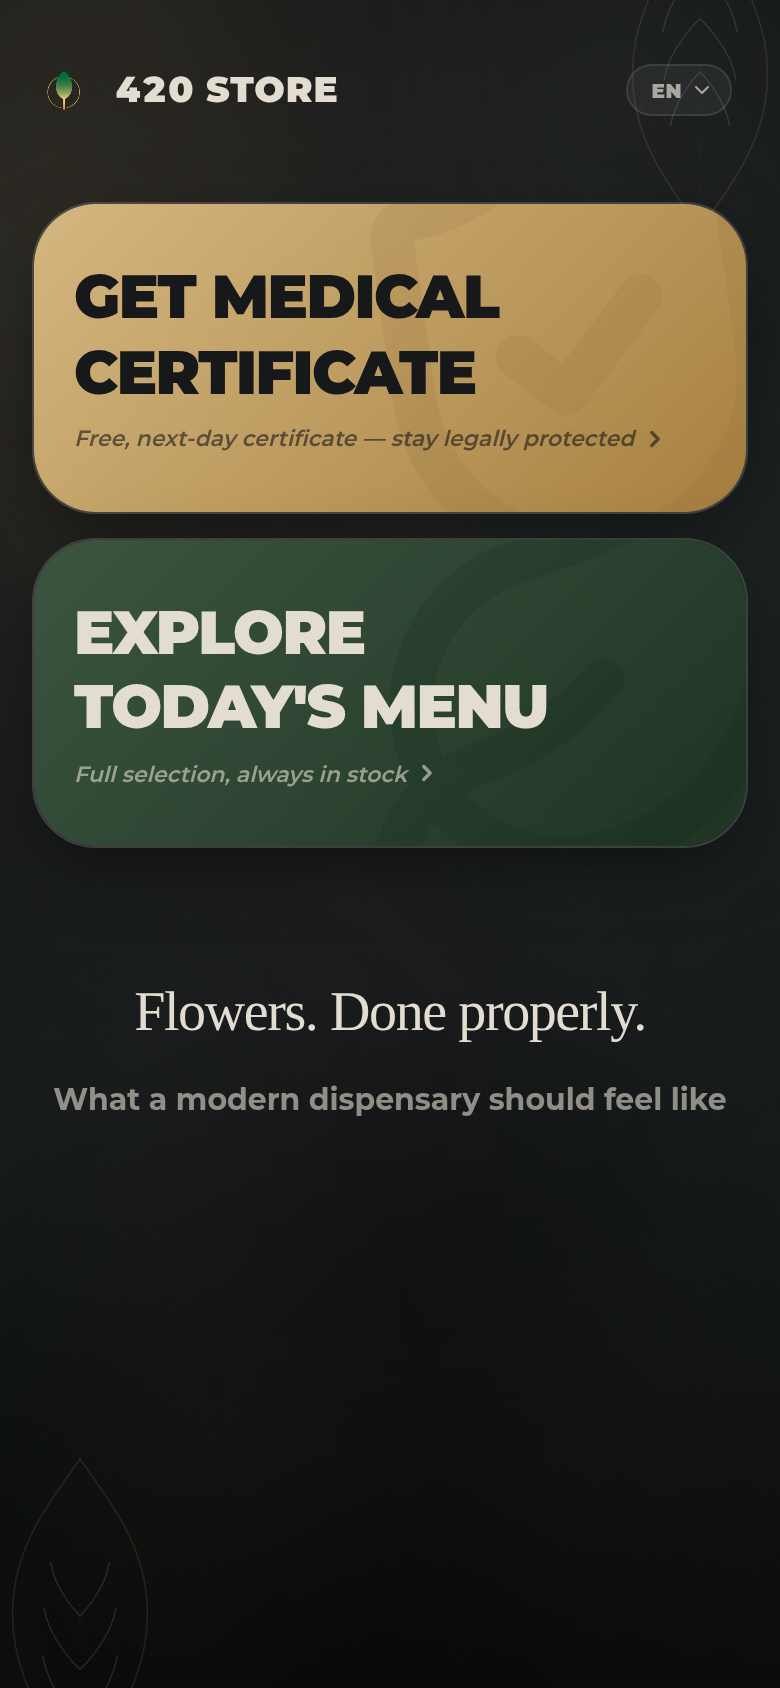
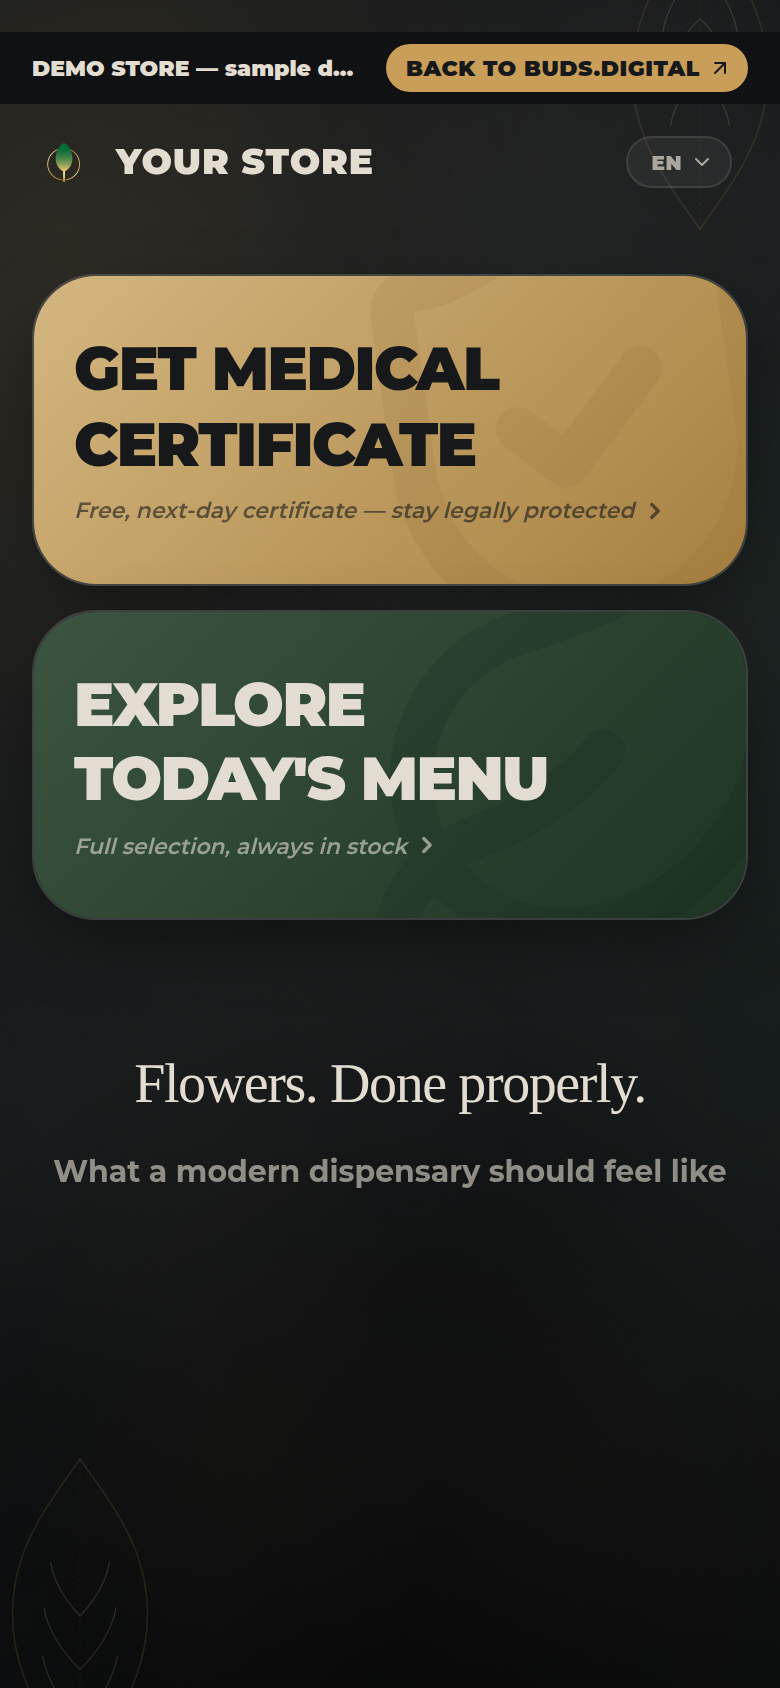
Merge mockup capture scripts, add /staff login and animation freeze
Replaces scripts/capture-customer-view.mjs with capture-mockups.mjs,
which recaptures both pitch-page screenshots in one run
(npm run capture:mockups): the existing customer-view.png staging is
carried over unchanged, and a new staff-view.png path logs into /staff
with DEMO_STAFF_EMAIL/DEMO_STAFF_PASSWORD and shoots the client search
screen at 860x560 (see DesktopMockup.tsx for why not full desktop width).

Both captures now freeze CSS transitions/animations before shooting and
wait on document.fonts.ready, on top of deviceScaleFactor: 2 — Framer
Motion's own enter animations are JS-driven rather than CSS, so each
capture also waits out their known duration for real. Missing demo
credentials fail the script immediately, before it ever boots a dev
server. The script manages its own `npm run dev` (reusing one already
running rather than fighting it for the port) and tears it down in every
exit path, including SIGINT/SIGTERM and an unhandled-rejection backstop.

Recaptured customer-view.png with the current page (picks up the
"YOUR STORE" rename already on main). staff-view.png could not be
regenerated in this environment — no live Supabase project/credentials
here — so it still needs a real run of this script before it reflects
the current /staff panel (no leaf watermark, "Ng left" quota, no
"Dr. Dr.").

Claude-Session: https://claude.ai/code/session_01HETNFkvk7oDjue2C8WPDuR

Changed region(s): [[0.0, 0.0, 0.9846, 0.5545], [0.0615, 0.5853, 0.9231, 0.7085], [0.4923, 0.0, 0.9846, 0.0616]]

diff --git a/src/components/partners/DesktopMockup.tsx b/src/components/partners/DesktopMockup.tsx
@@ -30,14 +30,16 @@ import { motion } from "framer-motion"
 // button on top of the last visible row of the screenshot instead of below
 // it (see ТЗ №2 M6).
 //
-// The screenshot is a real render of the live /staff search screen carrying the
-// demo data supabase/seed.sql seeds. Recapture and swap
-// public/images/partners/staff-view.png whenever that screen's design changes.
-// Capture it at 860x560, not at a full desktop width: /staff is a max-w-2xl
-// (672px) column centred in the viewport, so a narrow window still reads as a
-// real desktop browser while keeping the column — and its status pills —
-// legible once the shot is scaled down into this block. A 1280px-wide capture
-// scales to roughly a quarter here and turns the rows to mush.
+// The screenshot is a real render of the live /staff search screen carrying
+// the demo data supabase/seed.sql seeds. Recapture and swap
+// public/images/partners/staff-view.png whenever that screen's design
+// changes — scripts/capture-mockups.mjs does it (npm run capture:mockups),
+// logged in as the demo staff account. Capture it at 860x560, not at a full
+// desktop width: /staff is a max-w-2xl (672px) column centred in the
+// viewport, so a narrow window still reads as a real desktop browser while
+// keeping the column — and its status pills — legible once the shot is
+// scaled down into this block. A 1280px-wide capture scales to roughly a
+// quarter here and turns the rows to mush.
 export function DesktopMockup() {
   // Same pattern as DeviceMockup: the sweep is driven off the frame's viewport
   // entry rather than its own whileInView, which never fires reliably on an

diff --git a/src/components/partners/DeviceMockup.tsx b/src/components/partners/DeviceMockup.tsx
@@ -6,7 +6,7 @@ import { motion } from "framer-motion"
 // Composited screenshot of buds.digital (header + hero cards + the homepage
 // tagline), captured at a true iPhone 13/14 screen ratio of 390x844 at 2x.
 // Recapture and swap the PNG in public/images/partners/customer-view.png
-// whenever the homepage's top changes — scripts/capture-customer-view.mjs
+// whenever the homepage's top changes — scripts/capture-mockups.mjs
 // does it, and says there what it stages before it shoots. The composite is
 // a poster of the page rather than a plain capture of it: the sections below
 // the tagline are dropped, the tagline is pulled up under the cards, and the
